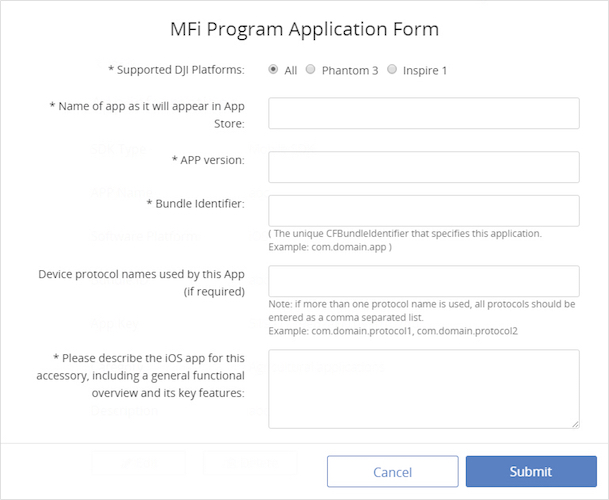
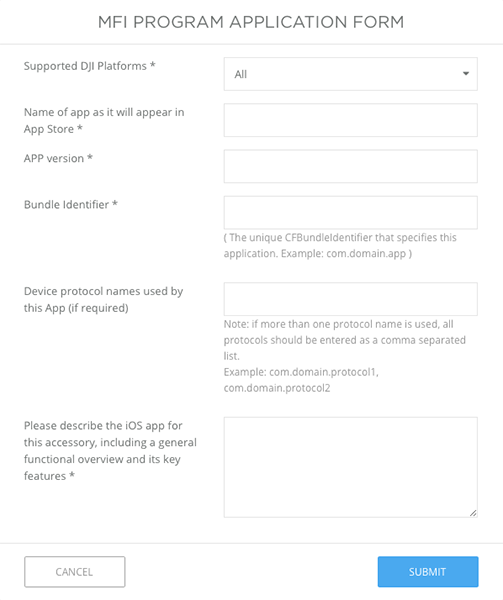
update MFI Program infos and images

diff --git a/source/cn/application-development-workflow/workflow-deploy.md b/source/cn/application-development-workflow/workflow-deploy.md
@@ -43,11 +43,11 @@ After receiving the application form, DJI will record the application inf
 
 ##### 3. Apple Approves/Rejects the MFi Application
 
-Typically it takes up to ten business days for Apple to finish the review process. Once approved, a MFi PPID (Product Plan Identification) will be provided by Apple. 
+It may take several business days for Apple to finish the review process if no challenges come up. Once approved, a MFi PPID (Product Plan Identification) will be provided by Apple. 
 
 ##### 4. DJI Provides PPID to Developer
 
-The PPID will appear in the status bar of the DJI developer User Center. 
+The PPID will appear in the **MFI PROGRAM** section as shown below: 
 
 ![mfiApprove](../../images/application-development-workflow/mfiApprove.png)
 

diff --git a/source/application-development-workflow/workflow-deploy.md b/source/application-development-workflow/workflow-deploy.md
@@ -43,11 +43,11 @@ After receiving the application form, DJI will record the application inf
 
 ##### 3. Apple Approves/Rejects the MFi Application
 
-Typically it takes up to ten business days for Apple to finish the review process. Once approved, a MFi PPID (Product Plan Identification) will be provided by Apple. 
+It may take several business days for Apple to finish the review process if no challenges come up. Once approved, a MFi PPID (Product Plan Identification) will be provided by Apple. 
 
 ##### 4. DJI Provides PPID to Developer
 
-The PPID will appear in the status bar of the DJI developer User Center. 
+The PPID will appear in the **MFI PROGRAM** section as shown below: 
 
 ![mfiApprove](../images/application-development-workflow/mfiApprove.png)
 
